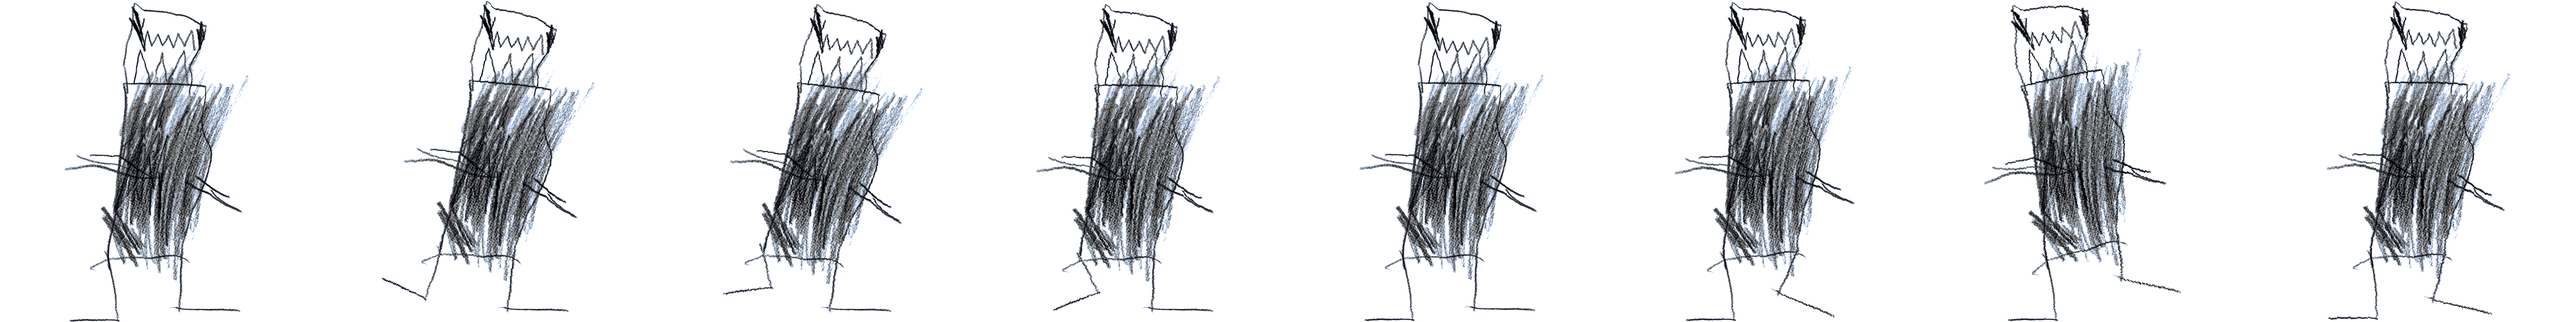
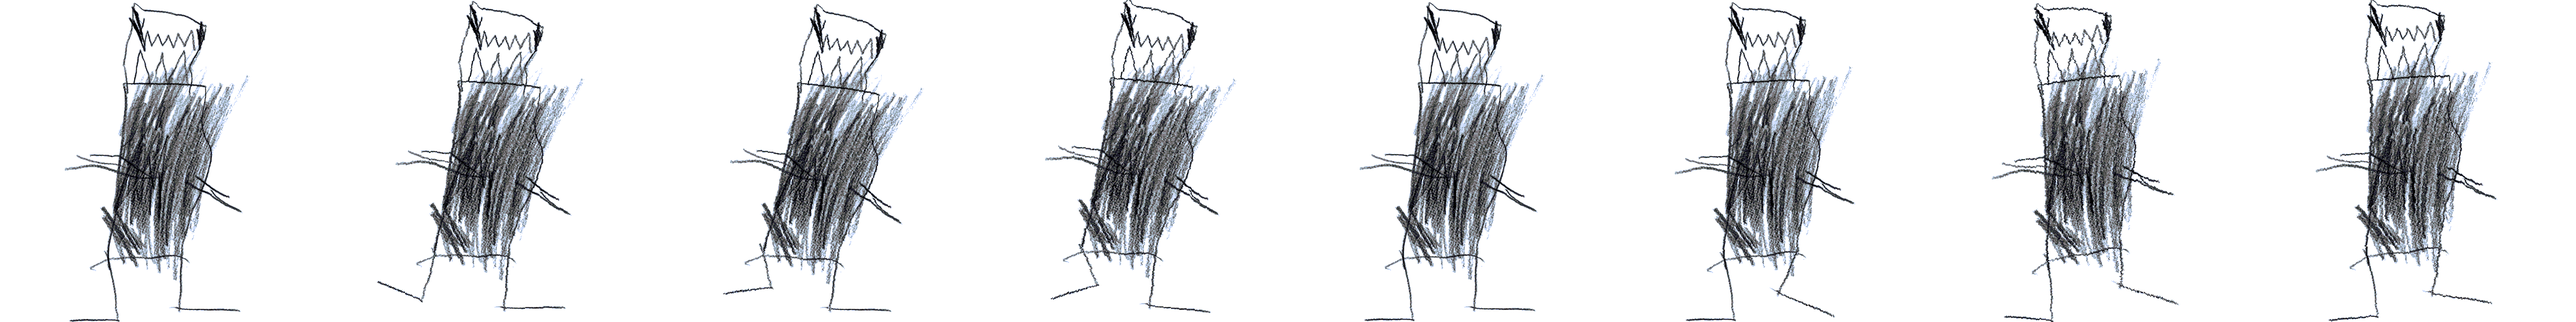
lisätty grund-grafiikka, ja animaatiota fiksattu

diff --git a/core/src/discordia/robo/Robo.java b/core/src/discordia/robo/Robo.java
@@ -27,7 +27,8 @@ public class Robo {
     private TextureRegion currentFrame;
     int frame_cols;
     Animation anim;
-    Texture roboTex, roboWalkRight;
+    Texture roboTex, roboWalkRight, roboAir, animSheet;
+
     enum State  {   RIGHT,
                     LEFT    }
     State state;
@@ -59,9 +60,11 @@ public class Robo {
         robo = new Sprite(roboTex);
         robo.setSize(4, 4); //SPRITET JOUTUU 2xTAMAAN, KOSKA FYSIIKAT LAITETTU KOKONAISIKSI
         roboWalkRight = new Texture("robotti/robotti_walkRight.png");
-        currentFrame = new TextureRegion(roboTex);
+        roboAir = new Texture("robotti/ropotti_air.png");
+        //currentFrame = new TextureRegion(roboTex);
+        animSheet = roboTex;
 
-        animSpeed = .03f;
+
         frame_cols = 1;
     }
 
@@ -71,34 +74,35 @@ public class Robo {
         //2 = LEFT
         //3 = JUMP
 
-        velocity = body.getLinearVelocity();
-        if (velocity.y != 0) midair = true;
-        else midair = false;
+
 
         if (!midair) {
             switch (direction) {
                 case 0:
                     body.setLinearVelocity(0, 0);
                     frame_cols = 1;
-                    anim(roboTex);
+                    //anim(roboTex);
+                    animSheet = roboTex;
                     break;
                 case 1:
                     if (velocity.x < 2) body.applyLinearImpulse(2, 0, position.x, position.y, true);
                     frame_cols = 8;
-                    anim(roboWalkRight);
+                    //anim(roboWalkRight);
+                    animSheet = roboWalkRight;
                     state = State.RIGHT;
                     break;
                 case 2:
                     if (velocity.x > -2)
                         body.applyLinearImpulse(-2, 0, position.x, position.y, true);
                     frame_cols = 8;
-                    anim(roboWalkRight);
+                    animSheet = roboWalkRight;
                     state = State.LEFT;
                     break;
                 case 3:
+                    midair = true;
                     body.applyLinearImpulse(0, 8, position.x, position.y, true);
-                    frame_cols = 1;
-                    anim(roboTex);
+                    frame_cols = 8;
+                    animSheet = roboAir;
                     break;
                 default:
                     body.setLinearVelocity(0, 0);
@@ -115,8 +119,18 @@ public class Robo {
         robo.draw(batch);
     }
 
-    public void anim(Texture animSheet) {
+    public void anim() {
         stateTime += Gdx.graphics.getDeltaTime();
+
+        //TÄMÄ TÄÄLLÄ, KOSKA HALUTAAN ANIMAATION JATKUVAN, VAIKKEI INPUTISTA TULISIKAAN MOVE()-KÄSKYÄ
+        velocity = body.getLinearVelocity();
+        if(midair && velocity.y == 0) {
+            midair = false;
+            frame_cols = 1;
+            animSheet = roboTex;
+        }
+        if(midair) animSpeed = .09f;
+        else animSpeed = .05f;
 
         animFrames = new TextureRegion[frame_cols];
         int index = 0;

diff --git a/core/src/discordia/robo/Level.java b/core/src/discordia/robo/Level.java
@@ -1,5 +1,8 @@
 package discordia.robo;
 
+import com.badlogic.gdx.graphics.Texture;
+import com.badlogic.gdx.graphics.g2d.Sprite;
+import com.badlogic.gdx.graphics.g2d.SpriteBatch;
 import com.badlogic.gdx.physics.box2d.Body;
 import com.badlogic.gdx.physics.box2d.BodyDef;
 import com.badlogic.gdx.physics.box2d.PolygonShape;
@@ -11,6 +14,7 @@ import com.badlogic.gdx.physics.box2d.World;
 
 public class Level {
     public Body ground;
+    Sprite grund;
 
     public Level(World world){
         //LATTIA
@@ -21,5 +25,13 @@ public class Level {
         box.setAsBox(16, 1);
         ground.createFixture(box, 0);
         box.dispose();
+
+        //GRAFIIKKA
+        grund = new Sprite(new Texture("environs/grund.png"));
+        grund.setSize(32, 3);
+        grund.setPosition(groundDef.position.x-16, groundDef.position.y-1);
+    }
+    public void draw(SpriteBatch batch){
+        grund.draw(batch);
     }
 }

diff --git a/core/src/discordia/robo/BasicInput.java b/core/src/discordia/robo/BasicInput.java
@@ -21,6 +21,8 @@ public class BasicInput implements InputProcessor {
         if(Gdx.input.isKeyPressed(Input.Keys.LEFT)) robo.move(2);
 
         if(Gdx.input.isKeyPressed(Input.Keys.RIGHT) && Gdx.input.isKeyPressed(Input.Keys.LEFT)) robo.move(0);
+
+        robo.anim();
     }
 
     @Override

diff --git a/core/src/discordia/robo/RobottiMain.java b/core/src/discordia/robo/RobottiMain.java
@@ -47,6 +47,7 @@ public class RobottiMain extends ApplicationAdapter {
 		camera.update();
 
 		batch.begin();
+		level.draw(batch);
 		robo.draw(batch);
 		batch.end();
 		debug.render(world, camera.combined);
